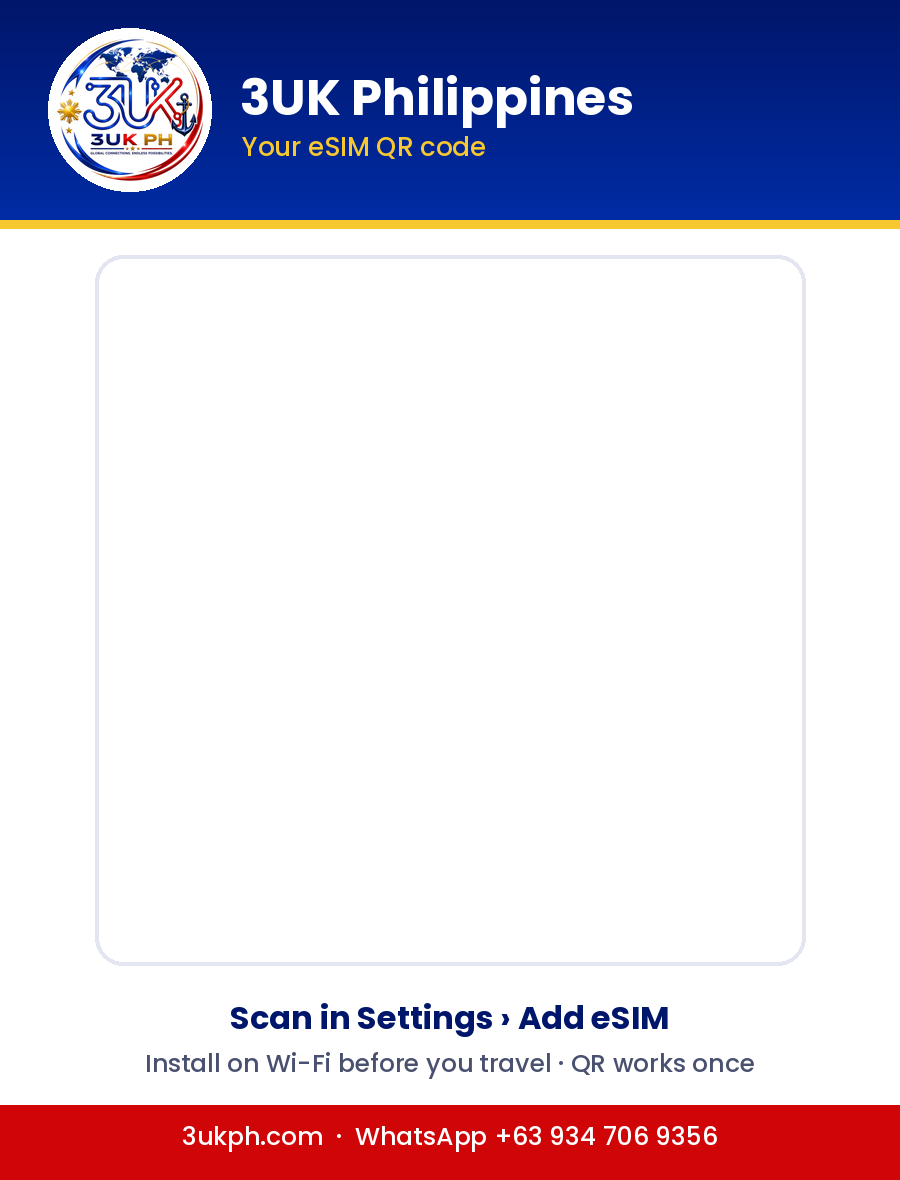
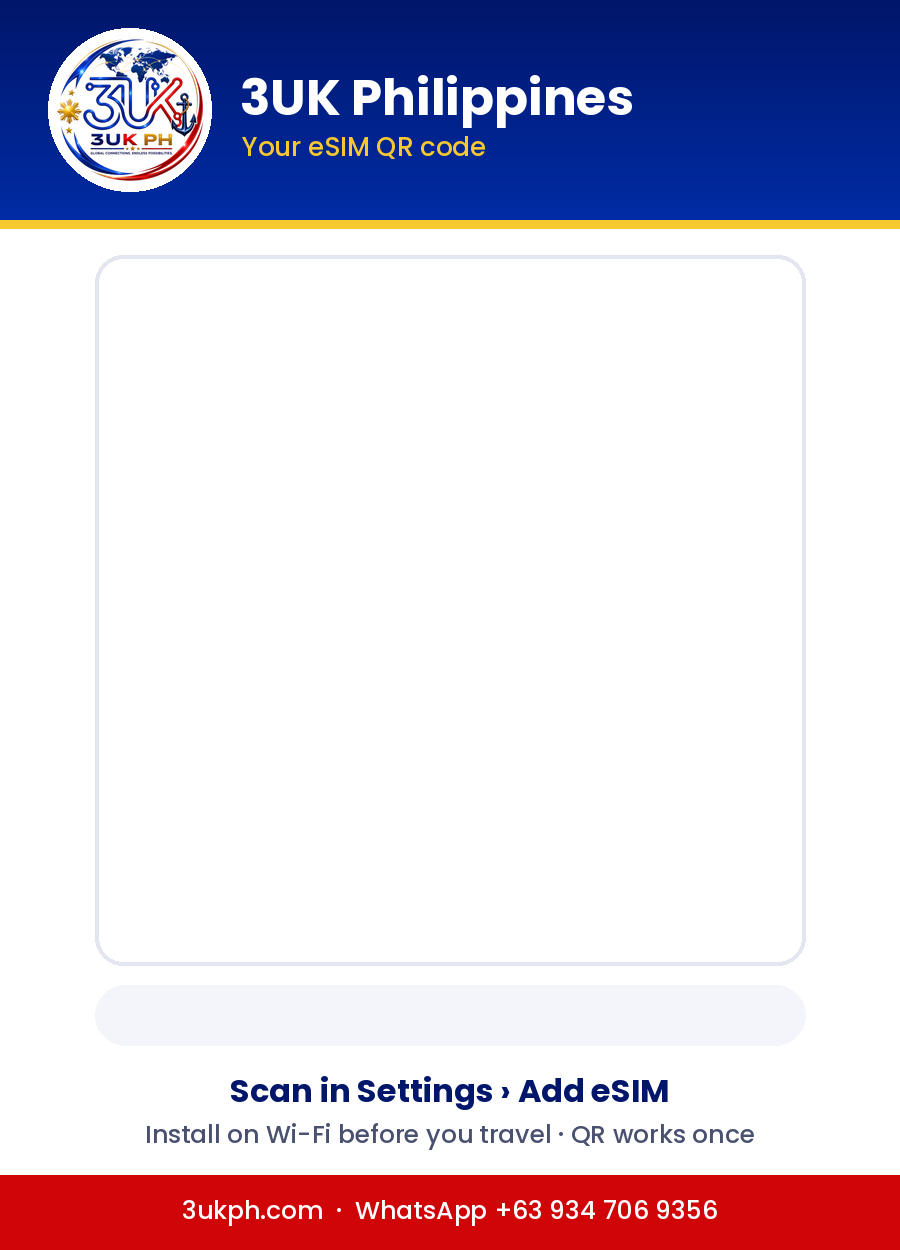
QR card: show the eSIM's ICCID under the QR
Claude-Session: https://claude.ai/code/session_01LJKSAbxurqSc4aGwsLqJh1

diff --git a/qrcard.js b/qrcard.js
@@ -13,7 +13,42 @@ function loadTemplate() {
 // QR area inside the template (pixels)
 const AREA = { x: 110, y: 270, size: 680 };
 
-function brandedQr(text) {
+let glyphs = null;
+function loadGlyphs() {
+  if (glyphs) return glyphs;
+  const dir = path.join(__dirname, "assets", "glyphs");
+  glyphs = {};
+  for (const name of ["label", "0", "1", "2", "3", "4", "5", "6", "7", "8", "9"]) glyphs[name] = PNG.sync.read(fs.readFileSync(path.join(dir, name + ".png")));
+  return glyphs;
+}
+// Alpha-blend a glyph onto the card.
+function blit(png, g, x0, y0) {
+  for (let y = 0; y < g.height; y++) for (let x = 0; x < g.width; x++) {
+    const si = (g.width * y + x) << 2, a = g.data[si + 3] / 255;
+    if (!a) continue;
+    const di = (png.width * (y0 + y) + (x0 + x)) << 2;
+    for (let k = 0; k < 3; k++) png.data[di + k] = Math.round(g.data[si + k] * a + png.data[di + k] * (1 - a));
+  }
+}
+// ICCID row, centred in the pill under the QR (digits in groups of 4).
+const ICCID_ROW = { cy: 1015 };
+function drawIccid(png, iccid) {
+  const G = loadGlyphs();
+  const digits = String(iccid || "").replace(/\D/g, "").slice(0, 22);
+  if (!digits) return;
+  const gap = 9;
+  let width = G.label.width;
+  for (let i = 0; i < digits.length; i++) width += G[digits[i]].width + (i && i % 4 === 0 ? gap : 0);
+  let x = Math.round((png.width - width) / 2);
+  blit(png, G.label, x, ICCID_ROW.cy - Math.round(G.label.height / 2) + 1); x += G.label.width;
+  for (let i = 0; i < digits.length; i++) {
+    if (i && i % 4 === 0) x += gap;
+    const g = G[digits[i]];
+    blit(png, g, x, ICCID_ROW.cy - Math.round(g.height / 2)); x += g.width;
+  }
+}
+
+function brandedQr(text, iccid) {
   const t = loadTemplate();
   const png = new PNG({ width: t.width, height: t.height });
   t.data.copy(png.data);
@@ -31,6 +66,7 @@ function brandedQr(text) {
     if (!qr.modules.get(r, c)) continue;
     for (let y = 0; y < scale; y++) for (let x = 0; x < scale; x++) set(ox + c * scale + x, oy + r * scale + y, 0);
   }
+  if (iccid) drawIccid(png, iccid);
   return PNG.sync.write(png, { colorType: 2 });
 }
 

diff --git a/server.js b/server.js
@@ -1269,7 +1269,7 @@ app.post("/admin/api/deliver", requireAdmin, async (req, res) => {
     const steps = [];
     if (sim.lpa) {
       let png;
-      try { png = brandedQr(sim.lpa); } // 3UK-branded card; falls back to a plain QR
+      try { png = brandedQr(sim.lpa, sim.iccid); } // 3UK-branded card; falls back to a plain QR
       catch (e) { console.error("[deliver] branded QR failed:", e.message); png = await QRCode.toBuffer(sim.lpa, { width: 720, margin: 3, errorCorrectionLevel: "M" }); }
       await adminSendImage(psid, png, "image/png", `Your eSIM QR code: ${plan.name}`);
       steps.push("qr");
